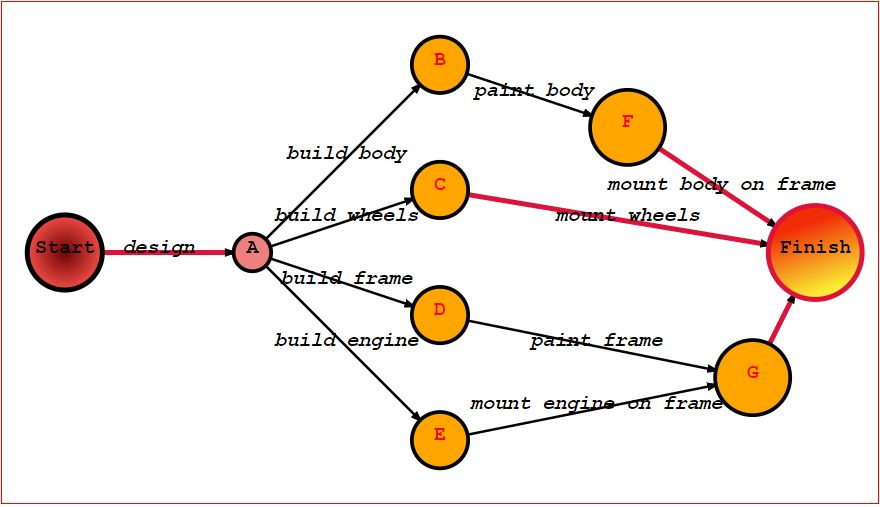
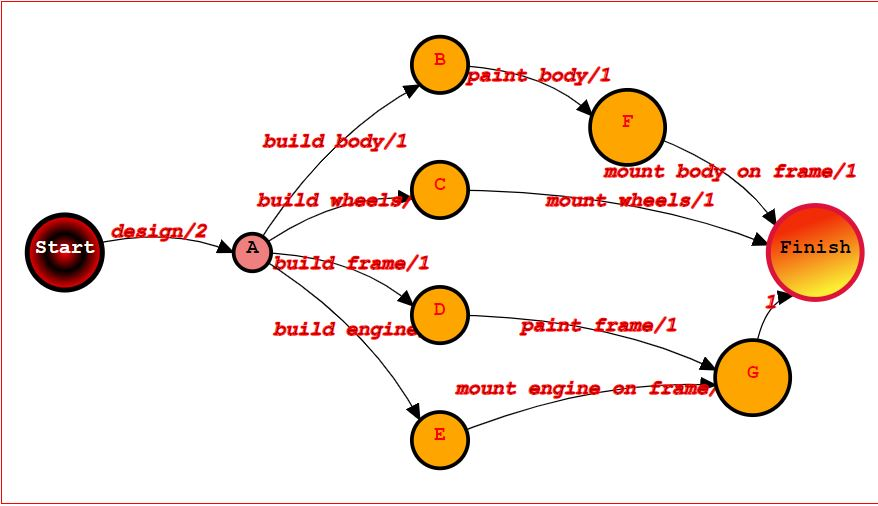
coordinates init + arc drawing improvements

Changed region(s): [[0.0, 0.0, 1.0, 1.0], [0.4305, 0.7411, 0.4613, 0.8004]]

diff --git a/src/graph/embedding/embedding.js b/src/graph/embedding/embedding.js
@@ -9,7 +9,7 @@ import Point2D from '../../geometric/point2d.js';
 
 import { ERROR_MSG_INVALID_ARGUMENT, ERROR_MSG_VERTEX_NOT_FOUND, ERROR_MSG_EDGE_NOT_FOUND } from '../../common/errors.js';
 import { toNumber, isNumber } from '../../common/numbers.js';
-import { isUndefined } from '../../common/basic.js';
+import { isUndefined, isPlainObject } from '../../common/basic.js';
 
 class Embedding {
   /**
@@ -23,6 +23,8 @@ class Embedding {
    *
    */
   #edges;
+
+  // -----  CLASS METHODS  -----
 
   static fromJson(json) {
 
@@ -39,15 +41,15 @@ class Embedding {
 
     const g = UndirectedGraph.completeGraph(n);
 
-    let coordinates = new Map();
+    let coordinates = {};
     for (const v of g.vertices) {
       const i = toNumber(v.label) - 1;
       const delta = 2 * Math.PI / n;
       const center = canvasSize / 2;
       const radius = center - EmbeddedVertex.DEFAULT_VERTEX_RADIUS;
-      coordinates.set(v.id, new Point2D(center + radius * Math.cos(i * delta), center + radius * Math.sin(i * delta)));
+      coordinates[v.id] = new Point2D(center + radius * Math.cos(i * delta), center + radius * Math.sin(i * delta));
     }
-    return new Embedding(g, coordinates);
+    return new Embedding(g, {coordinates: coordinates});
   }
 
   static completeBipartiteGraph(n, m, canvasSize) {
@@ -67,7 +69,7 @@ class Embedding {
 
     const deltaN = (canvasSize - 2 * EmbeddedVertex.DEFAULT_VERTEX_RADIUS) / (n - 1);
     const deltaM = (canvasSize - 2 * EmbeddedVertex.DEFAULT_VERTEX_RADIUS) / (m - 1);
-    let coordinates = new Map();
+    let coordinates = {};
     let x, y;
 
     for (const v of g.vertices) {
@@ -79,17 +81,19 @@ class Embedding {
         x = canvasSize - 2 * EmbeddedVertex.DEFAULT_VERTEX_RADIUS;
         y = EmbeddedVertex.DEFAULT_VERTEX_RADIUS + (i - n - 1) * deltaM;
       }
-      coordinates.set(v.label, new Point2D(x, y));
+      coordinates[v.id] = new Point2D(x, y);
     }
-    return new Embedding(g, coordinates);
+    return new Embedding(g, {coordinates: coordinates});
   }
 
-  constructor(graph, coordinates = new Map(), { width, height } = {}) {
+  // -----  INSTANCE METHODS  -----
+
+  constructor(graph, { width, height, coordinates = {} } = {}) {
     if (!(graph instanceof Graph)) {
       throw new Error(ERROR_MSG_INVALID_ARGUMENT('Embedding', 'graph', graph));
     }
 
-    if (!(coordinates instanceof Map)) {
+    if (!isPlainObject(coordinates)) {
       throw new Error(ERROR_MSG_INVALID_ARGUMENT('Embedding', 'coordinates', coordinates));
     }
 
@@ -97,7 +101,7 @@ class Embedding {
     this.#edges = new Map();
 
     for (const v of graph.vertices) {
-      let cs = coordinates.get(vertexLabel(v));
+      let cs = coordinates[vertexLabel(v)];
       if (!(cs instanceof Point2D)) {
         cs = Point2D.random({ width, height });
       }

diff --git a/test/graph/embedding/embedding.test.js b/test/graph/embedding/embedding.test.js
@@ -111,22 +111,26 @@ describe('Methods', () => {
   });
   describe('toSVG()', () => {
     it('# complete graphs should return a valid svg', () => {
-      const emb = Embedding.completeGraph(10, 400);
-      console.log(emb.toSvg(400, 400, {
+      console.log(Embedding.completeGraph(10, 400).toSvg(400, 400, {
         graphCss: ['complete'],
         verticesCss: { '1': ['warning'], '2': ['error'], '3': ['warning', 'source'] },
-        drawEdgesAsArcs: true
+        drawEdgesAsArcs: true,
+        displayEdgesWeight: false,
+        displayEdgesLabel: false
       }));
     });
 
     it('# complete bipartite graphs should return a valid svg', () => {
-      const emb = Embedding.completeBipartiteGraph(6, 4, 400);
       let vClasses = {};
+
       range(1, 7).forEach(i => vClasses[`${i}`] = ['left']);
       range(7, 11).forEach(i => vClasses[`${i}`] = ['right']);
-      console.log(emb.toSvg(400, 400, {
+
+      console.log(Embedding.completeBipartiteGraph(6, 4, 400).toSvg(400, 400, {
         graphCss: ['complete bipartite'],
-        verticesCss: vClasses
+        verticesCss: vClasses,
+        displayEdgesWeight: false,
+        displayEdgesLabel: false
       }));
     });
 
@@ -178,7 +182,7 @@ describe('Methods', () => {
         '"G"': ['mount', 'body', 'frame', 'engine']
       };
 
-      console.log(emb.toSvg(700, 400, { verticesCss: vClasses }));
+      console.log(emb.toSvg(700, 400, { verticesCss: vClasses, drawEdgesAsArcs: true }));
     });
 
     it('# Regex FSA should return a valid svg', () => {
@@ -194,7 +198,7 @@ describe('Methods', () => {
       const s5 = graph.createVertex('S5', { weight: 1.5 });
 
       let edgeStart = graph.createEdge(start, s0, { weight: 3, label: '^' });
-      graph.createEdge(s0, s1, { label: "[a-z0-9]" });
+      let edgeS0S1 = graph.createEdge(s0, s1, { label: "[a-z0-9]" });
       let edgeS1Loop = graph.createEdge(s1, s1, { label: "[a-z0-9_]" });
       graph.createEdge(s1, s2, { label: '"@"' });
       graph.createEdge(s2, s3, { label: "[a-z0-9]" });
@@ -227,13 +231,14 @@ describe('Methods', () => {
 
       // Adjust the curvature of some edges
       emb.setEdgeControlPoint(edgeStart, -10);
+      emb.setEdgeControlPoint(edgeS0S1, 60);
       emb.setEdgeControlPoint(edgeS4S5, 70);
       emb.setEdgeControlPoint(edgeS5S4, 70);
       emb.setEdgeControlPoint(edgeS1Loop, 20);
       emb.setEdgeControlPoint(edgeS5Loop, 20);
 
       emb.setEdgeControlPoint(edgeS0Error, -80);
-      emb.setEdgeControlPoint(edgeS1Error, -150);
+      emb.setEdgeControlPoint(edgeS1Error, -120);
       emb.setEdgeControlPoint(edgeS2Error, -40);
       emb.setEdgeControlPoint(edgeS3Error, 0);
       emb.setEdgeControlPoint(edgeS4Error, 40);

diff --git a/src/graph/embedding/embedded_edge.js b/src/graph/embedding/embedded_edge.js
@@ -6,7 +6,7 @@ import { ERROR_MSG_INVALID_ARGUMENT } from '../../common/errors.js';
 import { isNumber } from '../../common/numbers.js';
 
 const DEFAULT_EDGE_BEZIER_CONTROL_DISTANCE = 40;
-const DEFAULT_EDGE_LOOP_RADIUS = 15;
+const DEFAULT_EDGE_LOOP_RADIUS = 25;
 const DEFAULT_LABEL_WEIGHT_SEPARATOR = '/';
 
 class EmbeddedEdge extends Edge {
@@ -128,7 +128,7 @@ function rectilinearEdgeSvg(edge, cssClasses, displayLabel, displayWeight) {
   const [dx1, dy1] = [srcVertexRadius * Math.sin(alpha), srcVertexRadius * Math.cos(alpha)];
 
   // Coordinates for text
-  const [tx, ty] = [(x2 - x1) / 2, (y2 - y1) / 2];
+  const [tx, ty] = [(x2 - x1 - dx2 + dx1) / 2, (y2 - y1 - dy2 + dy1) / 2];
 
   return `
     <g class="edge ${cssClasses.join(' ')}" transform="translate(${Math.round(x1)},${Math.round(y1)})">
@@ -169,13 +169,13 @@ function arcEdgeSvg(edge, cssClasses, displayLabel, displayWeight, arcControlDis
 
   // Coordinates for text
   const [tx, ty] = [
-    (x2 - x1) / 2 + arcControlDistance / 2 * Math.sin(Math.PI / 2 + alpha),
-    (y2 - y1) / 2 + arcControlDistance / 2 * Math.cos(Math.PI / 2 + alpha)
+    (x2 - x1 - dx2 + dx1) / 2 + arcControlDistance / 2 * Math.sin(Math.PI / 2 + alpha),
+    (y2 - y1 - dy2 + dy1) / 2 + arcControlDistance / 2 * Math.cos(Math.PI / 2 + alpha)
   ];
 
   return `
     <g class="edge ${cssClasses.join(' ')}" transform="translate(${Math.round(x1)},${Math.round(y1)})">
-      <path d="M${Math.round(dx1)},${Math.round(dy1)} Q${Math.round(cx)},${Math.round(cy)} ${Math.round(x2 - x1 - dx2)},${Math.round(y2 - y1 - dy2)}"
+      <path d="M${0},${0} Q${Math.round(cx)},${Math.round(cy)} ${Math.round(x2 - x1 - dx2)},${Math.round(y2 - y1 - dy2)}"
        marker-end="${edge.isDirected() ? "url(#arrowhead)" : ""}"/>
       ${edgeLabel(edge, tx, ty, displayLabel, displayWeight)}
     </g>`;
@@ -219,7 +219,7 @@ function edgeLabel(edge, tx, ty, displayLabel, displayWeight) {
   ].filter(isNonEmptyString).join(DEFAULT_LABEL_WEIGHT_SEPARATOR);
 
   let edgeLabel = isNonEmptyString(labelText)
-    ? `<text x="${Math.round(tx)}" y="${Math.round(ty)}" text-anchor="middle"> ${labelText} </text>`
+    ? `<text x="${Math.round(tx)}" y="${Math.round(ty)}" text-anchor="middle" dominant-baseline="central"> ${labelText} </text>`
     : "";
 
   return edgeLabel;

diff --git a/README.md b/README.md
@@ -41,6 +41,8 @@ Embedding.completeGraph(10, 400)
   .toSvg(400, 400, {
     graphCss: ['complete'],
     verticesCss: { '1': ['warning'], '2': ['error'], '3': ['warning', 'source'] },
+    displayEdgesWeight: false,
+    displayEdgesLabel: false
     /*drawEdgesAsArcs: true // optionally*/
   }));
 ```
@@ -63,7 +65,9 @@ range(7, 11).forEach(i => vClasses[`${i}`] = ['right']);
 Embedding.completeBipartiteGraph(6, 4, 400)
   .toSvg(400, 400, {
     graphCss: ['complete bipartite'],
-    verticesCss: vClasses
+    verticesCss: vClasses,
+    displayEdgesWeight: false,
+    displayEdgesLabel: false
   }));
 ```
 
@@ -78,25 +82,25 @@ import Embedding from '/src/graph/embedding/embedding.js';
 import Graph from '/src/graph/graph.js';
 
 let graph = new Graph();
-graph.createVertex('Start', {weight: 2});
+graph.createVertex('Start', { weight: 2 });
 graph.createVertex('A');
-graph.createVertex('B', {weight: 1.5});
-graph.createVertex('C', {weight: 1.5});
-graph.createVertex('D', {weight: 1.5});
-graph.createVertex('E', {weight: 1.5});
-graph.createVertex('F', {weight: 2});
-graph.createVertex('G', {weight: 2});
-graph.createVertex('Finish', {weight: 2.5});
-graph.createEdge('Start', 'A', {label: 'design', weight: 2});
-graph.createEdge('A', 'B', {label: 'build body'});
-graph.createEdge('A', 'C', {label: 'build wheels'});
-graph.createEdge('A', 'D', {label: 'build frame'});
-graph.createEdge('A', 'E', {label: 'build engine'});
-graph.createEdge('B', 'F', {label: 'paint body'});
-graph.createEdge('D', 'G', {label: 'paint frame'});
-graph.createEdge('C', 'Finish', {label: 'mount wheels'});
-graph.createEdge('E', 'G', {label: 'mount engine on frame'});
-graph.createEdge('F', 'Finish', {label: 'mount body on frame'});
+graph.createVertex('B', { weight: 1.5 });
+graph.createVertex('C', { weight: 1.5 });
+graph.createVertex('D', { weight: 1.5 });
+graph.createVertex('E', { weight: 1.5 });
+graph.createVertex('F', { weight: 2 });
+graph.createVertex('G', { weight: 2 });
+graph.createVertex('Finish', { weight: 2.5 });
+graph.createEdge('Start', 'A', { label: 'design', weight: 2 });
+graph.createEdge('A', 'B', { label: 'build body' });
+graph.createEdge('A', 'C', { label: 'build wheels' });
+graph.createEdge('A', 'D', { label: 'build frame' });
+graph.createEdge('A', 'E', { label: 'build engine' });
+graph.createEdge('B', 'F', { label: 'paint body' });
+graph.createEdge('D', 'G', { label: 'paint frame' });
+graph.createEdge('C', 'Finish', { label: 'mount wheels' });
+graph.createEdge('E', 'G', { label: 'mount engine on frame' });
+graph.createEdge('F', 'Finish', { label: 'mount body on frame' });
 graph.createEdge('G', 'Finish');
 
 let emb = new Embedding(graph);
@@ -124,7 +128,7 @@ let vClasses = {
   '"G"': ['mount', 'body', 'frame', 'engine']
 };
 
-emb.toSvg(700, 400, { verticesCss: vClasses });
+emb.toSvg(700, 400, { verticesCss: vClasses, drawEdgesAsArcs: true });
 ```
 
 ![DAG](readme/dag.jpg)
@@ -151,7 +155,7 @@ const s4 = graph.createVertex('S4', { weight: 1.5 });
 const s5 = graph.createVertex('S5', { weight: 1.5 });
 
 let edgeStart = graph.createEdge(start, s0, { weight: 3, label: '^' });
-graph.createEdge(s0, s1, { label: "[a-z0-9]" });
+let edgeS0S1 = graph.createEdge(s0, s1, { label: "[a-z0-9]" });
 let edgeS1Loop = graph.createEdge(s1, s1, { label: "[a-z0-9_]" });
 graph.createEdge(s1, s2, { label: '"@"' });
 graph.createEdge(s2, s3, { label: "[a-z0-9]" });
@@ -184,13 +188,14 @@ emb.setVertexPosition(endError, new Point2D(350, 500));
 
 // Adjust the curvature of some edges
 emb.setEdgeControlPoint(edgeStart, -10);
+emb.setEdgeControlPoint(edgeS0S1, 60);
 emb.setEdgeControlPoint(edgeS4S5, 70);
 emb.setEdgeControlPoint(edgeS5S4, 70);
 emb.setEdgeControlPoint(edgeS1Loop, 20);
 emb.setEdgeControlPoint(edgeS5Loop, 20);
 
 emb.setEdgeControlPoint(edgeS0Error, -80);
-emb.setEdgeControlPoint(edgeS1Error, -150);
+emb.setEdgeControlPoint(edgeS1Error, -120);
 emb.setEdgeControlPoint(edgeS2Error, -40);
 emb.setEdgeControlPoint(edgeS3Error, 0);
 emb.setEdgeControlPoint(edgeS4Error, 40);
@@ -213,13 +218,13 @@ let eCss = {
   [edgeS5Error.id]: ['end', 'error']
 };
 
-console.log(emb.toSvg(700, 550, {
+emb.toSvg(700, 550, {
   graphCss: ['FSA'],
   verticesCss: vCss,
   edgesCss: eCss,
   drawEdgesAsArcs: true,
   displayEdgesWeight: false
-}));
+});
 ```
 
 ![DAG](readme/regex_fsa.jpg)
